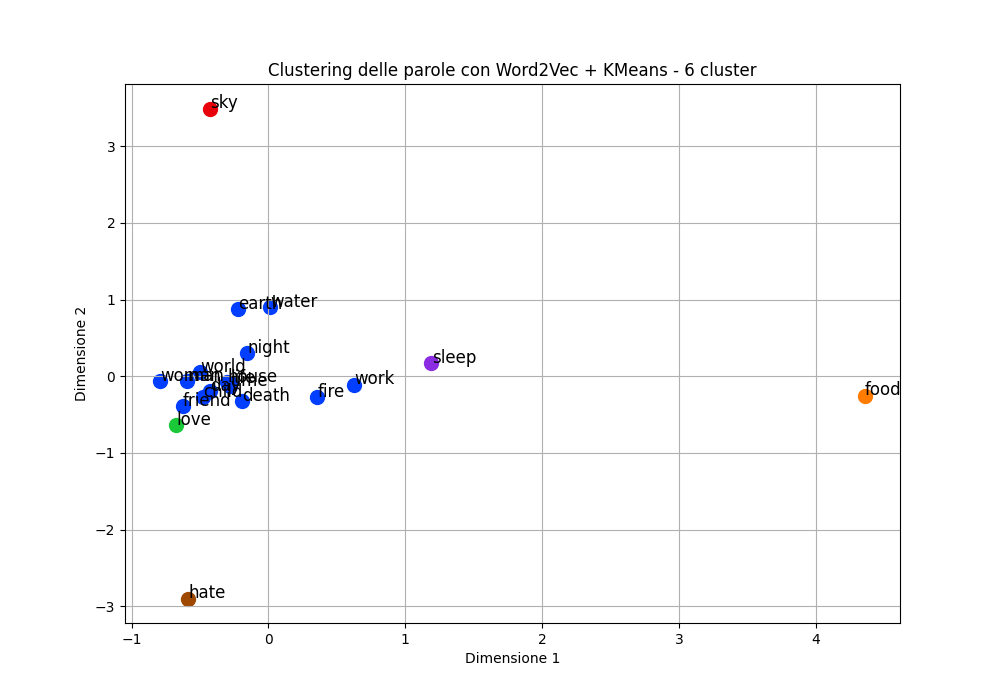
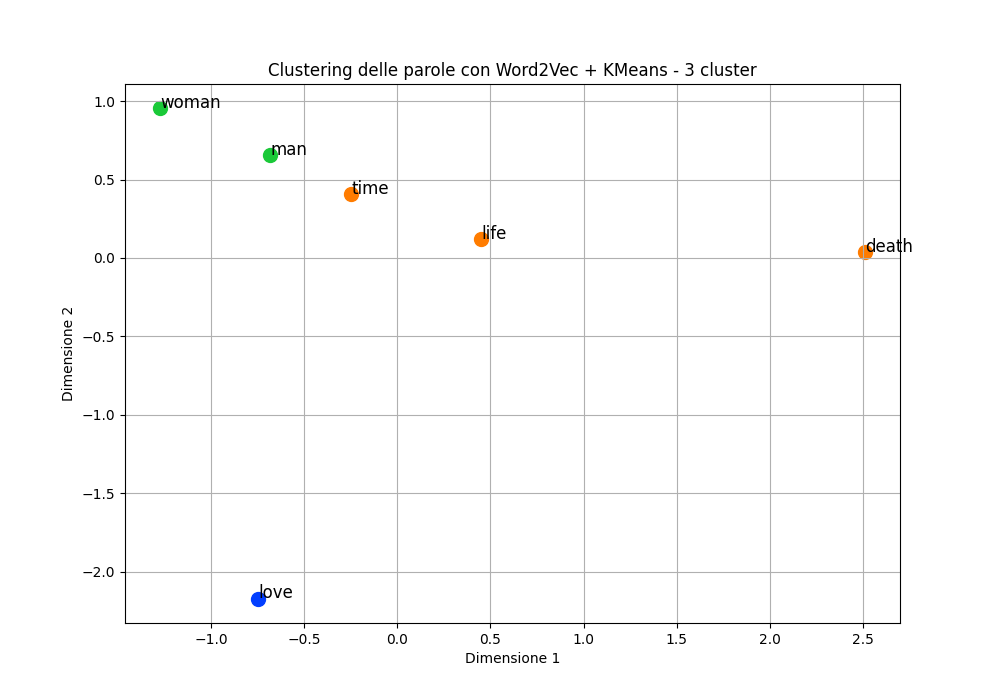
rimossi commenti/print/codice inutile

diff --git a/script.py b/script.py
@@ -8,23 +8,12 @@ from sklearn.decomposition import PCA
 def visualize_vectors(model, words, save_path=None):
     vectors = []
     labels = []
-    missing_words = []
     
     for word in words:
-        word_lower = word.lower()
-        if word_lower in model.wv:
-            vectors.append(model.wv[word_lower])
-            labels.append(word_lower)
-        else:
-            missing_words.append(word)
-    
-    if missing_words:
-        print(f"Parole non trovate nel vocabolario: {missing_words}")
-    
-    if len(vectors) < 2:
-        print("Non ci sono abbastanza parole nel vocabolario per visualizzare.")
-        return
-    
+        if word in model.wv:
+            vectors.append(model.wv[word])
+            labels.append(word)
+  
     pca = PCA(n_components=2)
     reduced_vectors = pca.fit_transform(vectors)
     
@@ -49,18 +38,14 @@ def visualize_vectors(model, words, save_path=None):
     
     plt.show()
 
-def explore_model(model, words_to_explore=None):
-    print("\n=== Esplorazione Modello Word2Vec ===")
+def explore_model(model, words_to_explore):
     for word in words_to_explore:
-        word_lower = word.lower()
-        if word_lower in model.wv:
-            print(f"\nParole più simili a '{word_lower}':")
-            similar_words = model.wv.most_similar(word_lower, topn=5)
+        if word in model.wv:
+            print(f"Parole più simili a '{word}':")
+            similar_words = model.wv.most_similar(word, topn=5)
             for similar_word, similarity in similar_words:
                 print(f"  {similar_word}: {similarity:.4f}")
-        else:
-            print(f"\nParola '{word}' non presente nel vocabolario.")
-    
+        
     return [w.lower() for w in words_to_explore if w.lower() in model.wv]  # Return valid words for visualization
 
 def cluster_words(model, words_to_cluster, n_clusters=3):
@@ -122,11 +107,10 @@ if __name__ == "__main__":
     
     model = Word2Vec.load("w2v_model.model")
     
-    # Explore the model
-    print("\n--- Esplorazione del modello ---")
+    print("Esplorazione del modello ")
     default_words = ["man", "woman", "love", "death", "life", "time"]
     
-    print("\nInserisci le parole da esplorare (separate da virgola) o premi Invio per i valori suggeriti:")
+    print("Inserisci le parole da esplorare (separate da virgola) o premi Invio per i valori suggeriti:")
     print(f"Parole suggerite: {', '.join(default_words)}")
     words_input = input("> ").strip()
     
@@ -136,44 +120,33 @@ if __name__ == "__main__":
         words_to_explore = default_words
         print(f"Uso parole predefinite: {', '.join(default_words)}")
     
-    # Explore and get valid words
     valid_words = explore_model(model, words_to_explore)
     
-    if valid_words and len(valid_words) >= 2:
-        print("\n--- Visualizzazione vettori ---")
-        visualize_vectors(model, valid_words, save_path="word_vectors_pca.png")
-        
-        input("\nPremi Invio per continuare al clustering...")
-    else:
-        print("\nNon ci sono abbastanza parole valide per visualizzare i vettori.")
-        exit()
+    print("Visualizzazione vettori")
+    visualize_vectors(model, valid_words, save_path="word_vectors_pca.png")
+            
+    print("Clustering delle parole")
     
-    # Cluster words
-    print("\n--- Clustering delle parole ---")
-    default_clusters = ["man", "woman", "love", "death", "life", "time", "world", "water"]
+    # default_clusters = ["man", "woman", "love", "death", "life", "time", "world", "water"]
     
-    print("\nInserisci le parole da raggruppare (separate da virgola) o premi Invio per usare le stesse parole:")
-    print(f"Parole suggerite: {', '.join(default_clusters)}")
-    cluster_input = input("> ").strip()
+    # print("Inserisci le parole da raggruppare (separate da virgola) o premi Invio per usare le stesse parole:")
+    # print(f"Parole suggerite: {', '.join(default_clusters)}")
     
-    if cluster_input:
-        words_to_cluster = [w.strip() for w in cluster_input.split(",")]
-    else:
-        # Use the same words from exploration if available, otherwise use defaults
-        words_to_cluster = valid_words if valid_words else default_clusters
-        print(f"Uso parole: {', '.join(words_to_cluster)}")
+    # cluster_input = input("> ").strip()
     
-    n_clusters = int(input("\nInserisci il numero di cluster (predefinito: 3): ") or 3)
+    # if cluster_input:
+    #     words_to_cluster = [w.strip() for w in cluster_input.split(",")]
+    # else:
+    #     print(f"Uso parole: {', '.join(words_to_cluster)}")
+    # print(f"Uso parole: {', '.join(valid_words)}")
     
-    valid_words, vectors, labels = cluster_words(model, words_to_cluster, n_clusters)
+    n_clusters = int(input("Inserisci il numero di cluster (predefinito: 3): ") or 3)
     
-    if valid_words and vectors is not None and labels is not None:
-        visualize_clusters(
-            valid_words, vectors, labels,
-            title=f"Clustering delle parole con Word2Vec + KMeans - {n_clusters} cluster",
-            save_path="word_clusters_pca.png"
-        )
-        print(f"\nVisualizzazione salvata in word_clusters_pca.png")
-    else:
-        print("\nImpossibile creare clusters con le parole specificate.")
-        print("Suggerimento: prova con parole più comuni nel testo o in minuscolo.")
+    # valid_words, vectors, labels = cluster_words(model, words_to_cluster, n_clusters)
+    valid_words, vectors, labels = cluster_words(model, valid_words, n_clusters)
+    
+    visualize_clusters(
+        valid_words, vectors, labels,
+        title=f"Clustering delle parole con Word2Vec + KMeans - {n_clusters} cluster",
+        save_path="word_clusters_pca.png"
+    )

diff --git a/train_model.py b/train_model.py
@@ -17,19 +17,18 @@ def preprocess_text(raw_text):
     
     processed_sentences = []
     for sentence in raw_sentences:
-        # Poi rimuovi punteggiatura e preprocessa
         sentence = re.sub(r"[^\w\s']", " ", sentence)
         words = word_tokenize(sentence)
 
-        words = [word.strip('_') for word in words] #rimuove underscore nelle parole enfatizzate
+        words = [word.strip('_') for word in words] 
 
         stop_words = set(stopwords.words("english"))
         words = [word for word in words if word not in stop_words and len(word) > 2]
         
-        if len(words) > 3:  # Solo frasi con senso
+        if len(words) > 3:  
             processed_sentences.append(words)
     
-    return processed_sentences  # Lista di frasi vere
+    return processed_sentences
 
 if __name__ == "__main__":
     all_texts = []
@@ -40,21 +39,19 @@ if __name__ == "__main__":
             with open(file_path, "r", encoding="utf-8") as f:
                 raw_text = f.read()
                 all_texts.append(raw_text)
-    # Preprocessa ogni file e accumula le frasi
+
     all_sentences = []
     for text in all_texts:
         sentences = preprocess_text(text)
         all_sentences.extend(sentences)
 
-    print("\nAddestramento modello Word2Vec...")
-    # slide 99-100 spiega i parametri
-    #vector size: Determina quante dimensioni ha ogni vettore di parola. (100-300)
-    #window: Quante parole a sinistra e destra considera per ogni parola target. (3-7)
-    #min count: Ignora parole che appaiono meno di N volte nel corpus.(3-5)
-    #sg:Determina l'architettura dell'algoritmo. (1 skip grab, 2 cbow)
+    print("Addestramento modello ...")
+    #vector size: determina quante dimensioni ha ogni vettore di parola
+    #window: quante parole a sinistra e destra considera per ogni parola target
+    #min_count: ignora parole che appaiono meno di N volte nel corpus
     model = Word2Vec(all_sentences, vector_size=200, window=7, min_count=4, sg=1, epochs=50)
     
-    print("Addestramento del modello completato!")
+    print("Addestramento del modello completato")
     
     model.save("w2v_model.model")
     
